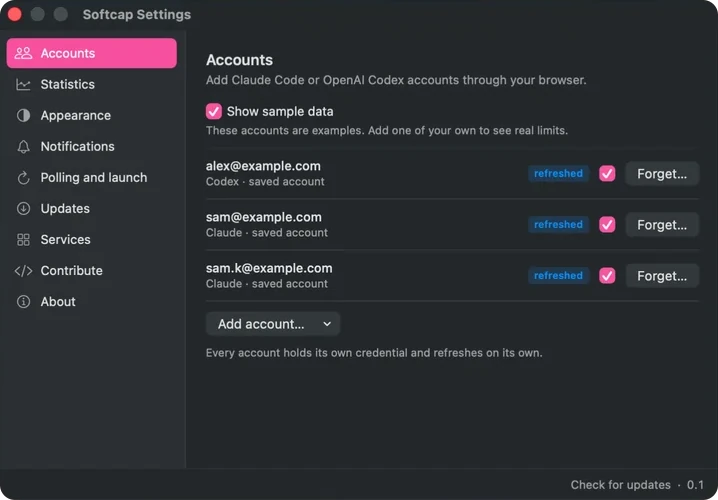
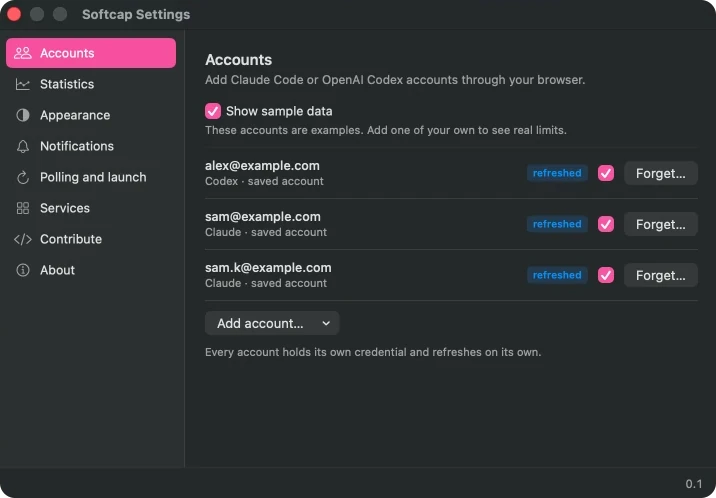
Photograph the store lane, and let the gallery declare what it holds
The App Store screenshots were of a build with the updater in it. The settings
sidebar carried an Updates row and the footer a Check for updates button, in all
ten languages — the feature App Review refused on 24 September under guideline
2.4.5(vii), on the storefront of a copy that does not have it, over review notes
saying in as many words that it is absent.

Nothing was wrong with the tool. `make screenshots` compiles with DEBUG and
SCREENSHOTS and no APPSTORE, so what it photographs is the disk image, and every
set uploaded before this one was of that lane. It did not matter while the two
lanes drew the same window.

Retaken from a build carrying APPSTORE as well: eight sections in the sidebar, a
footer that prints the version and offers nothing. The README's five and the
landing's four come from the same photographs rather than a second set, so those
show the store lane too — the disk image's ninth section is missing from them,
which is an omission rather than a claim.

The gallery's figures said 718x500 where the cropped windows are 716x498. Those
numbers reserve the box and fix the aspect, so they follow the files.

docs/DECISIONS.md carries the reasoning and the trap underneath it: the store
numbers its five in capture order and the README in reading order, so 03 is
notifications there and statistics here, and they are matched on the name.

diff --git a/site/bn/index.html b/site/bn/index.html
@@ -972,9 +972,9 @@ a.lang-row:hover{background:var(--strip);text-decoration:none}
         </div>
       </div>
         </figure>
-        <figure><img src="/shots/02-accounts.webp" width="718" height="500" alt="অ্যাকাউন্ট সেটিংস: একটাই তালিকায় তিনটি অ্যাকাউন্ট, প্রত্যেকের উৎস আর ভুলে যাওয়ার বোতামসহ।"></figure>
-        <figure><img src="/shots/03-statistics.webp" width="717" height="500" alt="পরিসংখ্যান সেটিংস: তিনটি অ্যাকাউন্টের এক সপ্তাহের সাপ্তাহিক সীমার ব্যবহার আঁকা।"></figure>
-        <figure><img src="/shots/04-notifications.webp" width="718" height="500" alt="বিজ্ঞপ্তি সেটিংস: ৯৫ ও ৮০ শতাংশে সীমারেখা, ফিরে আসার খবর আর নীরব সময়।"></figure>
+        <figure><img src="/shots/02-accounts.webp" width="716" height="498" alt="অ্যাকাউন্ট সেটিংস: একটাই তালিকায় তিনটি অ্যাকাউন্ট, প্রত্যেকের উৎস আর ভুলে যাওয়ার বোতামসহ।"></figure>
+        <figure><img src="/shots/03-statistics.webp" width="716" height="496" alt="পরিসংখ্যান সেটিংস: তিনটি অ্যাকাউন্টের এক সপ্তাহের সাপ্তাহিক সীমার ব্যবহার আঁকা।"></figure>
+        <figure><img src="/shots/04-notifications.webp" width="716" height="498" alt="বিজ্ঞপ্তি সেটিংস: ৯৫ ও ৮০ শতাংশে সীমারেখা, ফিরে আসার খবর আর নীরব সময়।"></figure>
         <figure><img src="/shots/05-minimal.webp" width="656" height="387" alt="সংক্ষিপ্ত জানালা: অ্যাকাউন্টের নাম আর ব্যবহারের বার, চারপাশের সাজ ছাড়া।"></figure>
       </div>
       <div class="rail">

diff --git a/site/hi/index.html b/site/hi/index.html
@@ -972,9 +972,9 @@ a.lang-row:hover{background:var(--strip);text-decoration:none}
         </div>
       </div>
         </figure>
-        <figure><img src="/shots/02-accounts.webp" width="718" height="500" alt="खाता सेटिंग्स: एक ही सूची में तीन खाते, हर एक के स्रोत और भूल जाने के बटन के साथ।"></figure>
-        <figure><img src="/shots/03-statistics.webp" width="717" height="500" alt="आँकड़ा सेटिंग्स: तीन खातों के लिए एक सप्ताह की साप्ताहिक सीमा का उपयोग बनाया गया।"></figure>
-        <figure><img src="/shots/04-notifications.webp" width="718" height="500" alt="सूचना सेटिंग्स: 95 और 80 प्रतिशत पर सीमाएँ, बहाली की सूचनाएँ और शांत घंटे।"></figure>
+        <figure><img src="/shots/02-accounts.webp" width="716" height="498" alt="खाता सेटिंग्स: एक ही सूची में तीन खाते, हर एक के स्रोत और भूल जाने के बटन के साथ।"></figure>
+        <figure><img src="/shots/03-statistics.webp" width="716" height="496" alt="आँकड़ा सेटिंग्स: तीन खातों के लिए एक सप्ताह की साप्ताहिक सीमा का उपयोग बनाया गया।"></figure>
+        <figure><img src="/shots/04-notifications.webp" width="716" height="498" alt="सूचना सेटिंग्स: 95 और 80 प्रतिशत पर सीमाएँ, बहाली की सूचनाएँ और शांत घंटे।"></figure>
         <figure><img src="/shots/05-minimal.webp" width="656" height="387" alt="न्यूनतम खिड़की: खातों के नाम और उपयोग की पट्टियाँ, चारों ओर की सजावट के बिना।"></figure>
       </div>
       <div class="rail">

diff --git a/site/ru/index.html b/site/ru/index.html
@@ -972,9 +972,9 @@ a.lang-row:hover{background:var(--strip);text-decoration:none}
         </div>
       </div>
         </figure>
-        <figure><img src="/shots/02-accounts.webp" width="718" height="500" alt="Настройки аккаунтов: три аккаунта в одном списке, у каждого свой источник и кнопка забыть его."></figure>
-        <figure><img src="/shots/03-statistics.webp" width="717" height="500" alt="Настройки статистики: неделя расхода недельного лимита по трём аккаунтам."></figure>
-        <figure><img src="/shots/04-notifications.webp" width="718" height="500" alt="Настройки уведомлений: пороги на 95 и 80 процентах, оповещения о восстановлении и тихие часы."></figure>
+        <figure><img src="/shots/02-accounts.webp" width="716" height="498" alt="Настройки аккаунтов: три аккаунта в одном списке, у каждого свой источник и кнопка забыть его."></figure>
+        <figure><img src="/shots/03-statistics.webp" width="716" height="496" alt="Настройки статистики: неделя расхода недельного лимита по трём аккаунтам."></figure>
+        <figure><img src="/shots/04-notifications.webp" width="716" height="498" alt="Настройки уведомлений: пороги на 95 и 80 процентах, оповещения о восстановлении и тихие часы."></figure>
         <figure><img src="/shots/05-minimal.webp" width="656" height="387" alt="Минимальное окно: имена аккаунтов и полосы расхода, без окружающей обвязки."></figure>
       </div>
       <div class="rail">

diff --git a/site/ar/index.html b/site/ar/index.html
@@ -972,9 +972,9 @@ a.lang-row:hover{background:var(--strip);text-decoration:none}
         </div>
       </div>
         </figure>
-        <figure><img src="/shots/02-accounts.webp" width="718" height="500" alt="إعدادات الحسابات: ثلاثة حسابات في قائمة واحدة، لكل منها مصدره وزر لنسيانه."></figure>
-        <figure><img src="/shots/03-statistics.webp" width="717" height="500" alt="إعدادات الإحصاءات: أسبوع من استخدام الحد الأسبوعي مرسوم لثلاثة حسابات."></figure>
-        <figure><img src="/shots/04-notifications.webp" width="718" height="500" alt="إعدادات التنبيهات: عتبات عند 95 و80 بالمئة، وتنبيهات التعافي، والساعات الهادئة."></figure>
+        <figure><img src="/shots/02-accounts.webp" width="716" height="498" alt="إعدادات الحسابات: ثلاثة حسابات في قائمة واحدة، لكل منها مصدره وزر لنسيانه."></figure>
+        <figure><img src="/shots/03-statistics.webp" width="716" height="496" alt="إعدادات الإحصاءات: أسبوع من استخدام الحد الأسبوعي مرسوم لثلاثة حسابات."></figure>
+        <figure><img src="/shots/04-notifications.webp" width="716" height="498" alt="إعدادات التنبيهات: عتبات عند 95 و80 بالمئة، وتنبيهات التعافي، والساعات الهادئة."></figure>
         <figure><img src="/shots/05-minimal.webp" width="656" height="387" alt="النافذة المصغّرة: أسماء الحسابات وأشرطة الاستخدام، دون الإطار المحيط."></figure>
       </div>
       <div class="rail">

diff --git a/site/fr/index.html b/site/fr/index.html
@@ -972,9 +972,9 @@ a.lang-row:hover{background:var(--strip);text-decoration:none}
         </div>
       </div>
         </figure>
-        <figure><img src="/shots/02-accounts.webp" width="718" height="500" alt="Réglages des comptes : trois comptes dans une liste, chacun avec sa source et un bouton pour l'oublier."></figure>
-        <figure><img src="/shots/03-statistics.webp" width="717" height="500" alt="Réglages des statistiques : une semaine d'usage de la limite hebdomadaire tracée pour trois comptes."></figure>
-        <figure><img src="/shots/04-notifications.webp" width="718" height="500" alt="Réglages des alertes : seuils à 95 et 80 pour cent, alertes de rétablissement et heures calmes."></figure>
+        <figure><img src="/shots/02-accounts.webp" width="716" height="498" alt="Réglages des comptes : trois comptes dans une liste, chacun avec sa source et un bouton pour l'oublier."></figure>
+        <figure><img src="/shots/03-statistics.webp" width="716" height="496" alt="Réglages des statistiques : une semaine d'usage de la limite hebdomadaire tracée pour trois comptes."></figure>
+        <figure><img src="/shots/04-notifications.webp" width="716" height="498" alt="Réglages des alertes : seuils à 95 et 80 pour cent, alertes de rétablissement et heures calmes."></figure>
         <figure><img src="/shots/05-minimal.webp" width="656" height="387" alt="La fenêtre minimale : noms de comptes et barres d'usage, sans l'habillage autour."></figure>
       </div>
       <div class="rail">

diff --git a/site/es/index.html b/site/es/index.html
@@ -972,9 +972,9 @@ a.lang-row:hover{background:var(--strip);text-decoration:none}
         </div>
       </div>
         </figure>
-        <figure><img src="/shots/02-accounts.webp" width="718" height="500" alt="Ajustes de cuentas: tres cuentas en una lista, cada una con su origen y un botón para olvidarla."></figure>
-        <figure><img src="/shots/03-statistics.webp" width="717" height="500" alt="Ajustes de estadísticas: una semana de uso del límite semanal trazada para tres cuentas."></figure>
-        <figure><img src="/shots/04-notifications.webp" width="718" height="500" alt="Ajustes de avisos: umbrales al 95 y al 80 por ciento, avisos de recuperación y horas de silencio."></figure>
+        <figure><img src="/shots/02-accounts.webp" width="716" height="498" alt="Ajustes de cuentas: tres cuentas en una lista, cada una con su origen y un botón para olvidarla."></figure>
+        <figure><img src="/shots/03-statistics.webp" width="716" height="496" alt="Ajustes de estadísticas: una semana de uso del límite semanal trazada para tres cuentas."></figure>
+        <figure><img src="/shots/04-notifications.webp" width="716" height="498" alt="Ajustes de avisos: umbrales al 95 y al 80 por ciento, avisos de recuperación y horas de silencio."></figure>
         <figure><img src="/shots/05-minimal.webp" width="656" height="387" alt="La ventana mínima: nombres de cuenta y barras de uso, sin el marco alrededor."></figure>
       </div>
       <div class="rail">

diff --git a/site/pt-br/index.html b/site/pt-br/index.html
@@ -972,9 +972,9 @@ a.lang-row:hover{background:var(--strip);text-decoration:none}
         </div>
       </div>
         </figure>
-        <figure><img src="/shots/02-accounts.webp" width="718" height="500" alt="Ajustes de contas: três contas em uma lista, cada uma com sua origem e um botão para esquecê-la."></figure>
-        <figure><img src="/shots/03-statistics.webp" width="717" height="500" alt="Ajustes de estatísticas: uma semana de uso do limite semanal traçada para três contas."></figure>
-        <figure><img src="/shots/04-notifications.webp" width="718" height="500" alt="Ajustes de avisos: limiares em 95 e 80 por cento, avisos de recuperação e horas de silêncio."></figure>
+        <figure><img src="/shots/02-accounts.webp" width="716" height="498" alt="Ajustes de contas: três contas em uma lista, cada uma com sua origem e um botão para esquecê-la."></figure>
+        <figure><img src="/shots/03-statistics.webp" width="716" height="496" alt="Ajustes de estatísticas: uma semana de uso do limite semanal traçada para três contas."></figure>
+        <figure><img src="/shots/04-notifications.webp" width="716" height="498" alt="Ajustes de avisos: limiares em 95 e 80 por cento, avisos de recuperação e horas de silêncio."></figure>
         <figure><img src="/shots/05-minimal.webp" width="656" height="387" alt="A janela mínima: nomes de conta e barras de uso, sem a moldura em volta."></figure>
       </div>
       <div class="rail">

diff --git a/site/id/index.html b/site/id/index.html
@@ -972,9 +972,9 @@ a.lang-row:hover{background:var(--strip);text-decoration:none}
         </div>
       </div>
         </figure>
-        <figure><img src="/shots/02-accounts.webp" width="718" height="500" alt="Setelan akun: tiga akun dalam satu daftar, masing-masing dengan sumbernya dan tombol untuk melupakannya."></figure>
-        <figure><img src="/shots/03-statistics.webp" width="717" height="500" alt="Setelan statistik: pemakaian batas mingguan selama sepekan digambar untuk tiga akun."></figure>
-        <figure><img src="/shots/04-notifications.webp" width="718" height="500" alt="Setelan pemberitahuan: ambang di 95 dan 80 persen, kabar pemulihan, dan jam tenang."></figure>
+        <figure><img src="/shots/02-accounts.webp" width="716" height="498" alt="Setelan akun: tiga akun dalam satu daftar, masing-masing dengan sumbernya dan tombol untuk melupakannya."></figure>
+        <figure><img src="/shots/03-statistics.webp" width="716" height="496" alt="Setelan statistik: pemakaian batas mingguan selama sepekan digambar untuk tiga akun."></figure>
+        <figure><img src="/shots/04-notifications.webp" width="716" height="498" alt="Setelan pemberitahuan: ambang di 95 dan 80 persen, kabar pemulihan, dan jam tenang."></figure>
         <figure><img src="/shots/05-minimal.webp" width="656" height="387" alt="Jendela ringkas: nama akun dan bilah pemakaian, tanpa bingkai di sekelilingnya."></figure>
       </div>
       <div class="rail">

diff --git a/site/index.html b/site/index.html
@@ -974,9 +974,9 @@ a.lang-row:hover{background:var(--strip);text-decoration:none}
         </div>
       </div>
         </figure>
-        <figure><img src="/shots/02-accounts.webp" width="718" height="500" alt="Accounts settings: three accounts in one list, each with its source and a button to forget it."></figure>
-        <figure><img src="/shots/03-statistics.webp" width="717" height="500" alt="Statistics settings: a week of weekly-limit usage plotted for three accounts."></figure>
-        <figure><img src="/shots/04-notifications.webp" width="718" height="500" alt="Notifications settings: thresholds at 95 and 80 per cent, recovery alerts, and quiet hours."></figure>
+        <figure><img src="/shots/02-accounts.webp" width="716" height="498" alt="Accounts settings: three accounts in one list, each with its source and a button to forget it."></figure>
+        <figure><img src="/shots/03-statistics.webp" width="716" height="496" alt="Statistics settings: a week of weekly-limit usage plotted for three accounts."></figure>
+        <figure><img src="/shots/04-notifications.webp" width="716" height="498" alt="Notifications settings: thresholds at 95 and 80 per cent, recovery alerts, and quiet hours."></figure>
         <figure><img src="/shots/05-minimal.webp" width="656" height="387" alt="The minimal window: account names and usage bars, without the surrounding chrome."></figure>
       </div>
       <div class="rail">

diff --git a/site/zh-hans/index.html b/site/zh-hans/index.html
@@ -972,9 +972,9 @@ a.lang-row:hover{background:var(--strip);text-decoration:none}
         </div>
       </div>
         </figure>
-        <figure><img src="/shots/02-accounts.webp" width="718" height="500" alt="账号设置：一张列表里的三个账号，每个都带有来源和一个忘记它的按钮。"></figure>
-        <figure><img src="/shots/03-statistics.webp" width="717" height="500" alt="统计设置：三个账号一周的每周额度用量曲线。"></figure>
-        <figure><img src="/shots/04-notifications.webp" width="718" height="500" alt="提醒设置：95% 和 80% 的阈值、恢复提醒和安静时段。"></figure>
+        <figure><img src="/shots/02-accounts.webp" width="716" height="498" alt="账号设置：一张列表里的三个账号，每个都带有来源和一个忘记它的按钮。"></figure>
+        <figure><img src="/shots/03-statistics.webp" width="716" height="496" alt="统计设置：三个账号一周的每周额度用量曲线。"></figure>
+        <figure><img src="/shots/04-notifications.webp" width="716" height="498" alt="提醒设置：95% 和 80% 的阈值、恢复提醒和安静时段。"></figure>
         <figure><img src="/shots/05-minimal.webp" width="656" height="387" alt="极简窗口：账号名称和用量条，没有周围的框架。"></figure>
       </div>
       <div class="rail">

diff --git a/site/src/index.body.html b/site/src/index.body.html
@@ -133,9 +133,9 @@
         </div>
       </div>
         </figure>
-        <figure><img src="/shots/02-accounts.webp" width="718" height="500" alt="{{attr:index.shot2_alt}}"></figure>
-        <figure><img src="/shots/03-statistics.webp" width="717" height="500" alt="{{attr:index.shot3_alt}}"></figure>
-        <figure><img src="/shots/04-notifications.webp" width="718" height="500" alt="{{attr:index.shot4_alt}}"></figure>
+        <figure><img src="/shots/02-accounts.webp" width="716" height="498" alt="{{attr:index.shot2_alt}}"></figure>
+        <figure><img src="/shots/03-statistics.webp" width="716" height="496" alt="{{attr:index.shot3_alt}}"></figure>
+        <figure><img src="/shots/04-notifications.webp" width="716" height="498" alt="{{attr:index.shot4_alt}}"></figure>
         <figure><img src="/shots/05-minimal.webp" width="656" height="387" alt="{{attr:index.shot5_alt}}"></figure>
       </div>
       <div class="rail">

diff --git a/docs/DECISIONS.md b/docs/DECISIONS.md
@@ -10035,3 +10035,44 @@ this divergence let it through; it has three more now.
 
 **Not checked against a live subscription**, which is now true of three of the
 five services this app can read.
+
+---
+
+## 2026-09-26 — The store's screenshots are photographs of the store's build
+
+**Decision.** `tools/store_screenshots.py` is pointed at a build compiled with
+`APPSTORE` as well as `DEBUG SCREENSHOTS`, so the fifty pictures the App Store
+shows are of the app the App Store installs. The same five feed
+`docs/screenshots/` for the README and, cropped, `site/shots/` for the landing's
+gallery: one set of photographs, not two.
+
+**Why.** The screenshots retaken on 25 September showed an Updates row in the
+settings sidebar and a `Check for updates` button in the footer, in all ten
+languages. Neither exists in the App Store build — they were compiled out the
+day before, under guideline 2.4.5(vii), and the review notes say so in as many
+words. The storefront would have advertised the feature the letter refused, over
+a note claiming its absence, four days after the refusal.
+
+Nothing was wrong with the tool. `make screenshots` builds with `DEBUG
+SCREENSHOTS`, which is the disk image, and every set of store screenshots this
+project has ever uploaded was of that lane. It did not matter while the two
+lanes drew the same settings window. It matters from the moment they stop.
+
+The site and the README take the same pictures rather than a second set of
+their own. The disk image has one section more, so its gallery is now missing a
+row it has — an omission, not a claim, and the smaller of the two mistakes
+available. Two sets would mean two capture runs, six minutes each, and a second
+thing to remember on a day when the first one was forgotten.
+
+**Cost.** The landing shows eight sections where the disk image has nine, and
+the README's table still describes the ninth. Whoever runs `make screenshots`
+gets the disk image and has to know to add `APPSTORE` before photographing for
+the store — the Makefile does not carry it, because the same target is what
+`make run` and a hand check want. The gallery's declared figures moved with the
+files: the cropped windows are 716×498 where the markup said 718×500, and those
+numbers reserve the box.
+
+One trap found on the way and worth writing down: the store numbers its five in
+capture order and the README in reading order, so `03` is notifications there
+and statistics here. Matched on the name, never on the number — by the number,
+the two would have swapped.
